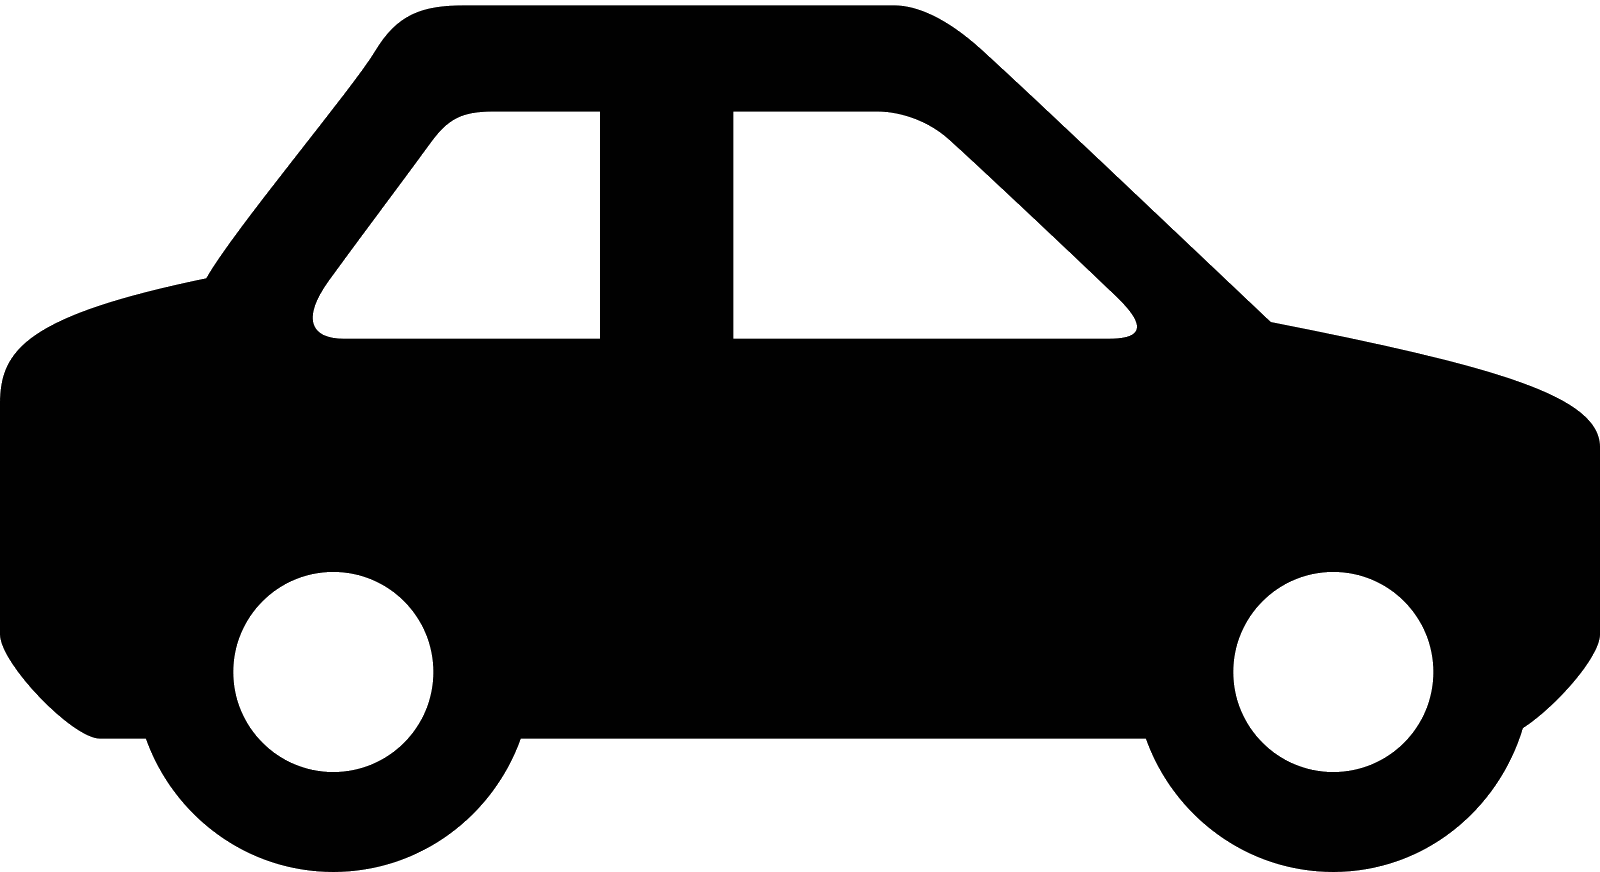
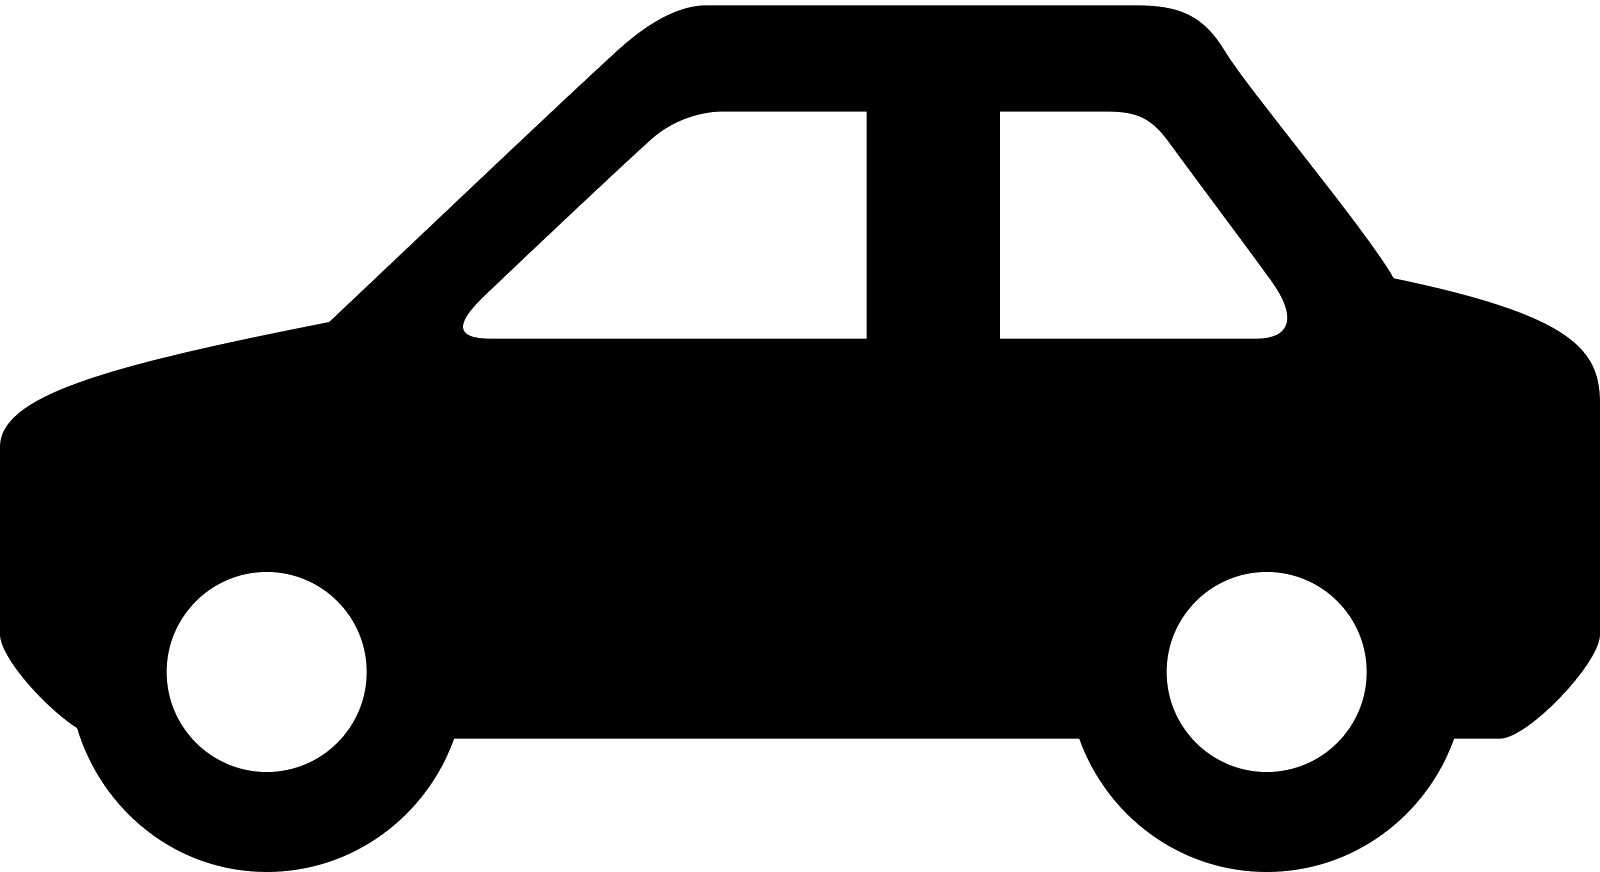
Get das opcoes na tela

diff --git a/src/br/udesc/ceavi/view/Tela.java b/src/br/udesc/ceavi/view/Tela.java
@@ -1,10 +1,11 @@
 package br.udesc.ceavi.view;
 
 import br.udesc.ceavi.controller.ControllerMalhaViaria;
-import br.udesc.ceavi.model.entity.Coordenada;
+import br.udesc.ceavi.model.entity.DirecaoVia;
 import br.udesc.ceavi.model.entity.MalhaViaria;
 import br.udesc.ceavi.model.entity.Veiculo;
 import br.udesc.ceavi.model.entity.Via;
+import br.udesc.ceavi.model.exclusividade.TipoEstrategiaExclusividade;
 
 import java.awt.BasicStroke;
 import java.awt.Color;
@@ -32,15 +33,27 @@ public class Tela extends JPanel implements ObservadorTela {
     private List<Via> vias = new ArrayList<>();
     private List<Veiculo> carros = Collections.synchronizedList(new ArrayList<>());
     private final String caminho =  System.getProperty("user.dir") + "/";
+    
+    private Opcoes opcoes;
 
-    public Tela() {
+    public Tela(Opcoes opcoes) {
+        controllerMalhaViaria = new ControllerMalhaViaria();
+        controllerMalhaViaria.adicionaObservador(this);
         try {
-            controllerMalhaViaria = new ControllerMalhaViaria();
-            controllerMalhaViaria.adicionaObservador(this);
             controllerMalhaViaria.iniciaMalhaViaria();
-
+        } catch (IOException ex) {
+            Logger.getLogger(Tela.class.getName()).log(Level.SEVERE, null, ex);
         }
-        catch (IOException ex) {
+    }
+    
+    public void iniciaMalhaViaria(){
+        int qtde = Integer.parseInt(opcoes.getCampoQtdeVeiculos().getText());
+        int mapa = Integer.parseInt(opcoes.getCampoMapa().getSelectedItem().toString());
+        TipoEstrategiaExclusividade estrategia = (TipoEstrategiaExclusividade)opcoes.getCampoEstrategia().getSelectedItem();
+        
+        try {
+            controllerMalhaViaria.iniciaMalhaViaria();
+        } catch (IOException ex) {
             Logger.getLogger(Tela.class.getName()).log(Level.SEVERE, null, ex);
         }
     }
@@ -67,11 +80,26 @@ public class Tela extends JPanel implements ObservadorTela {
     private BufferedImage getCarro(Veiculo veiculo) {
         BufferedImage image = null;
         try {
-            image = ImageIO.read(new File(caminho + "malhas/car_left.png"));
+            image = ImageIO.read(new File(caminho + "malhas/"+getImagemCarro(veiculo)));
         } catch (IOException e) {
             e.printStackTrace();
         }
         return resize(image, 30, 30);
+    }
+    
+    private String getImagemCarro(Veiculo veiculo){
+        DirecaoVia direcao = veiculo.getVia().getDirecao();
+        
+        if (direcao == DirecaoVia.CIMA_BAIXO) {
+            return "car_down.png";
+        }
+        if (direcao == DirecaoVia.BAIXO_CIMA) {
+            return "car_up.png";
+        }
+        if (direcao == DirecaoVia.ESQUERDA_DIREITA) {
+            return "car_left.png";
+        }
+        return "car_rigth.png";
     }
     
     @Override

diff --git a/src/br/udesc/ceavi/view/Opcoes.java b/src/br/udesc/ceavi/view/Opcoes.java
@@ -19,36 +19,54 @@ public class Opcoes extends JPanel{
     private JButton botaoEncerrar;
     private JLabel txtEstrategia;
     private JComboBox campoEstrategia;
+    private JComboBox campoMapa;
+    private JLabel txtMapa;
     
-    private final TipoEstrategiaExclusividade[] opcoes = {TipoEstrategiaExclusividade.SEMAFORO, 
-                                                          TipoEstrategiaExclusividade.MONITOR};
+    private final TipoEstrategiaExclusividade[] opcoesEstrategia = {TipoEstrategiaExclusividade.SEMAFORO, 
+                                                                    TipoEstrategiaExclusividade.MONITOR};
+    
+    private final String[] opcoesMapa = {"1","2","3","4"};
+
+    public JTextField getCampoQtdeVeiculos() {
+        return campoQtdeVeiculos;
+    }
+
+    public JButton getBotaoIniciar() {
+        return botaoIniciar;
+    }
+
+    public JButton getBotaoEncerrar() {
+        return botaoEncerrar;
+    }
+
+    public JComboBox getCampoEstrategia() {
+        return campoEstrategia;
+    }
+
+    public JComboBox getCampoMapa() {
+        return campoMapa;
+    }
     
     public Opcoes(){
         adcionaCampos();
     }
     
     private void adcionaCampos(){
-        txtQtdeVeiculos = new JLabel("Quantidade Veículos: ");
-            
-        campoQtdeVeiculos = new JTextField(3);
-        campoQtdeVeiculos.setName("campoQtdeVeiculos");
-        campoQtdeVeiculos.setText("10");
-
-        botaoIniciar = new JButton("Iniciar");
-        botaoIniciar.setName("btnIniciar");
-
-        botaoEncerrar = new JButton("Encerrar");
-        botaoEncerrar.setName("btnEncerrar");
-
-        txtEstrategia = new JLabel("Estratégia: ");
-
-        campoEstrategia = new JComboBox(opcoes);
-        campoEstrategia.setName("campoEstrategia");
+        txtQtdeVeiculos   = new JLabel("Quantidade Veículos: ");
+        txtEstrategia     = new JLabel("Estratégia: ");
+        txtMapa           = new JLabel("Mapa: ");
+        campoQtdeVeiculos = new JTextField("10",3);
+        campoEstrategia   = new JComboBox(opcoesEstrategia);
+        campoMapa         = new JComboBox(opcoesMapa);
+        botaoIniciar      = new JButton("Iniciar");
+        botaoEncerrar     = new JButton("Encerrar");
         
         add(txtQtdeVeiculos);
         add(campoQtdeVeiculos);
         add(txtEstrategia);
         add(campoEstrategia);
+        add(txtMapa);
+        add(campoMapa);
         add(botaoIniciar);
         add(botaoEncerrar);
     }

diff --git a/src/br/udesc/ceavi/Principal.java b/src/br/udesc/ceavi/Principal.java
@@ -22,8 +22,9 @@ public class Principal {
             frame.setVisible( true );
             frame.setSize(1000,700);
             
-            frame.add(new Opcoes(), BorderLayout.SOUTH);
-            frame.add(new Tela());
+            Opcoes opcoes = new Opcoes();
+            frame.add(opcoes, BorderLayout.SOUTH);
+            frame.add(new Tela(opcoes));
         });
     }
 }
